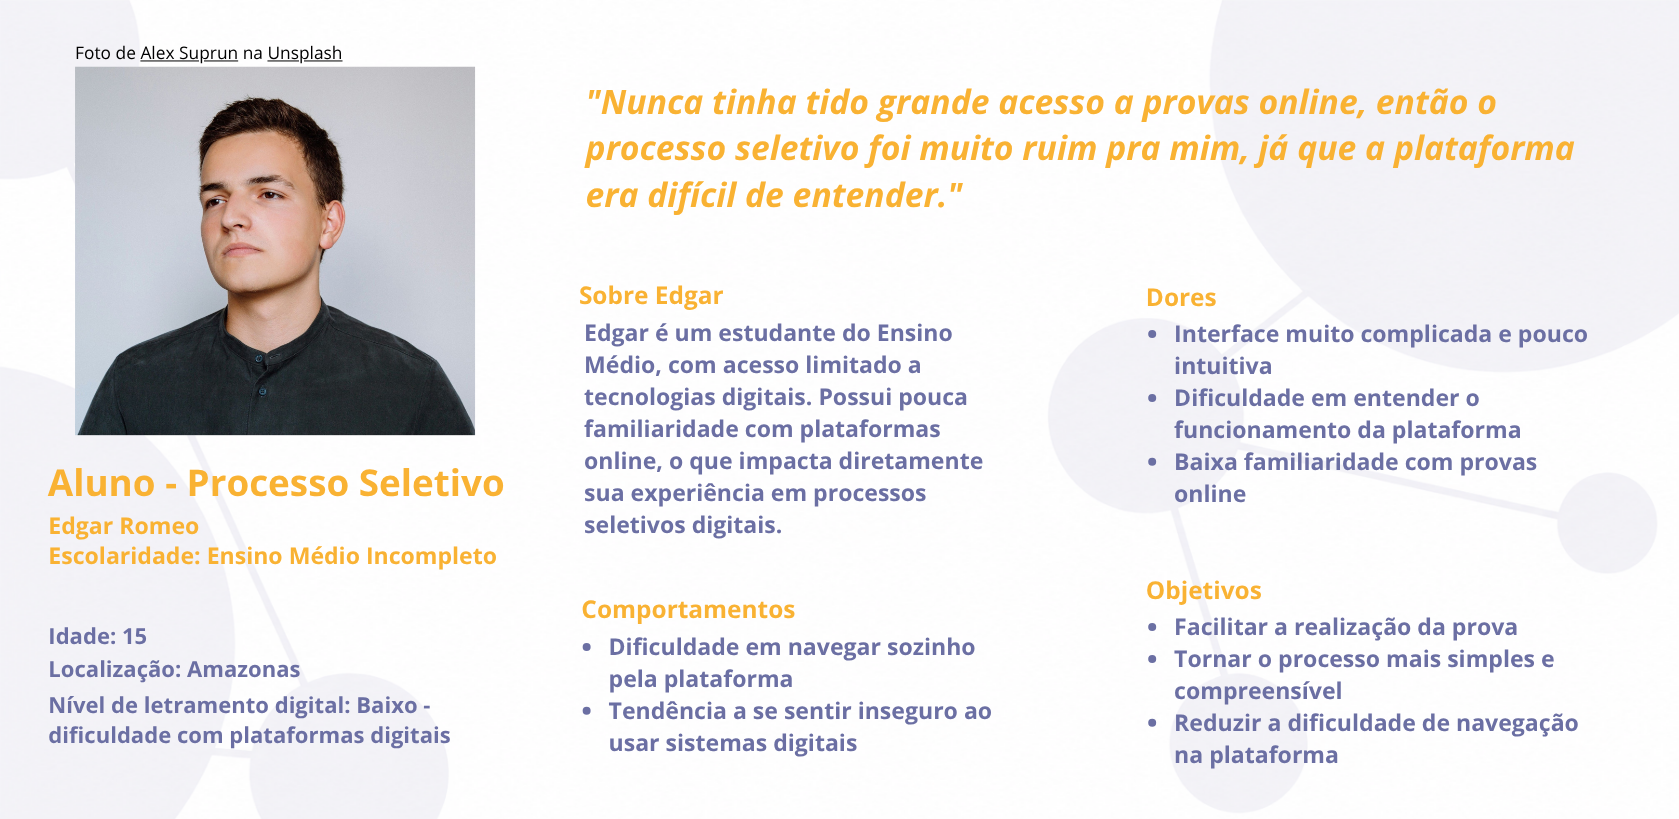
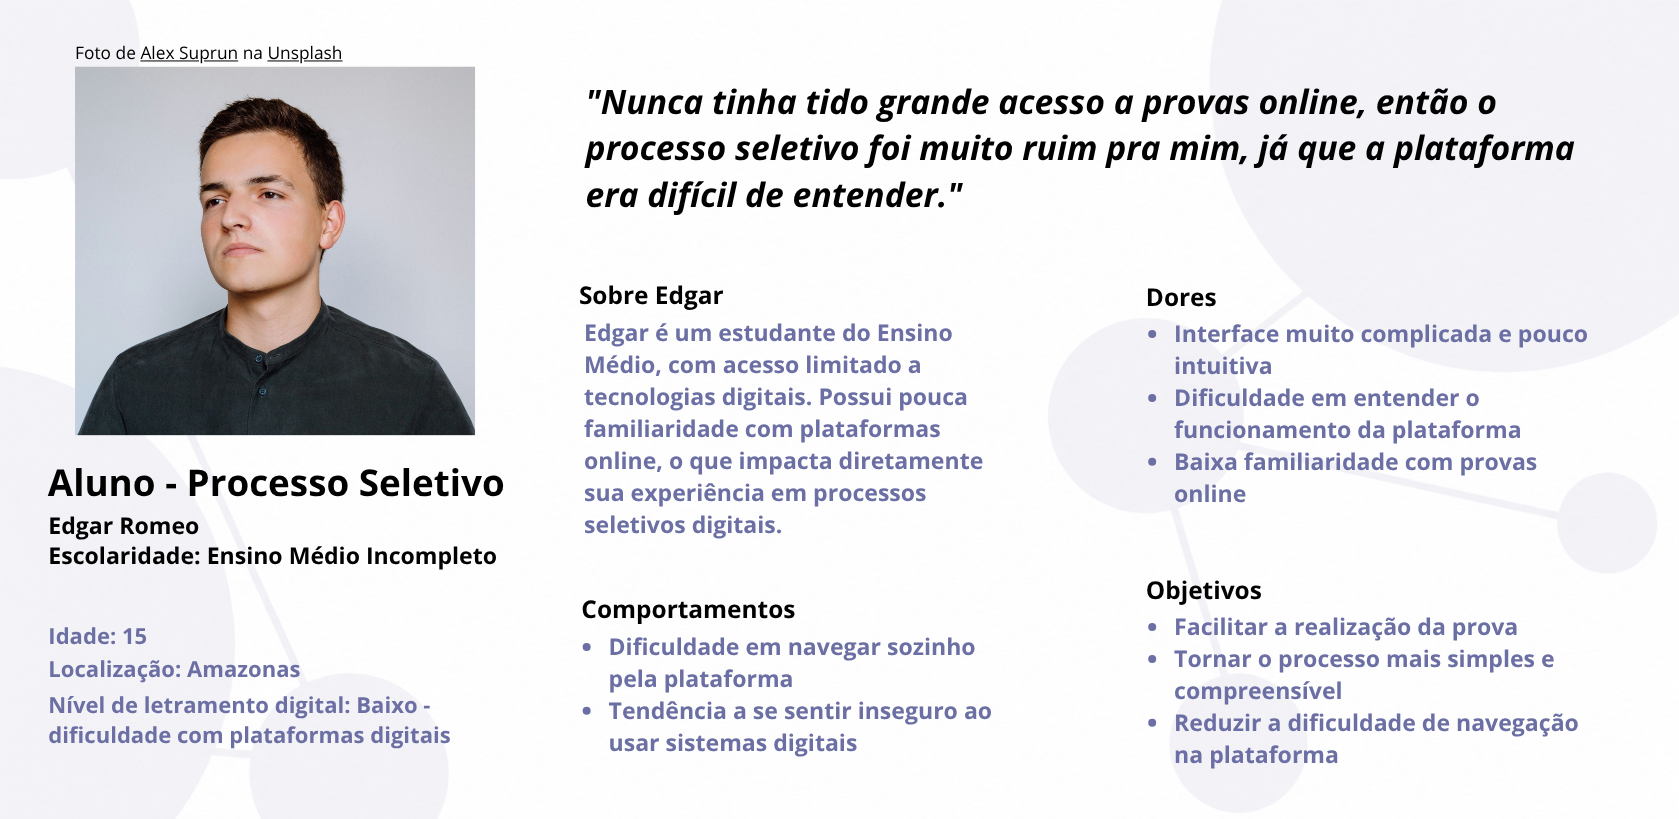
Docs: Atualizando template das personas

diff --git a/documentos/wad.md b/documentos/wad.md
@@ -89,6 +89,15 @@
 
 ## 2.2. Personas (sprint 1)
 
+### Mini descrição das personas
+
+- **Aluno (Edgar Romeo):** Estudante com baixo letramento digital que enfrenta dificuldades para navegar e compreender plataformas de prova online, necessitando de uma interface simples e intuitiva.
+
+- **Professor (Ronaldo Silva):** Docente experiente que realiza correções digitais, mas sofre com falta de organização e risco de perda de progresso, buscando mais eficiência no processo avaliativo.
+
+- **Coordenadora (Valéria dos Santos):** Profissional com alto domínio digital que precisa de acesso estruturado a dados, relatórios e histórico de provas para apoiar a tomada de decisão acadêmica.
+
+
 <div align="center">
   <img src="../assets/personaAluno.png">
 </div>
